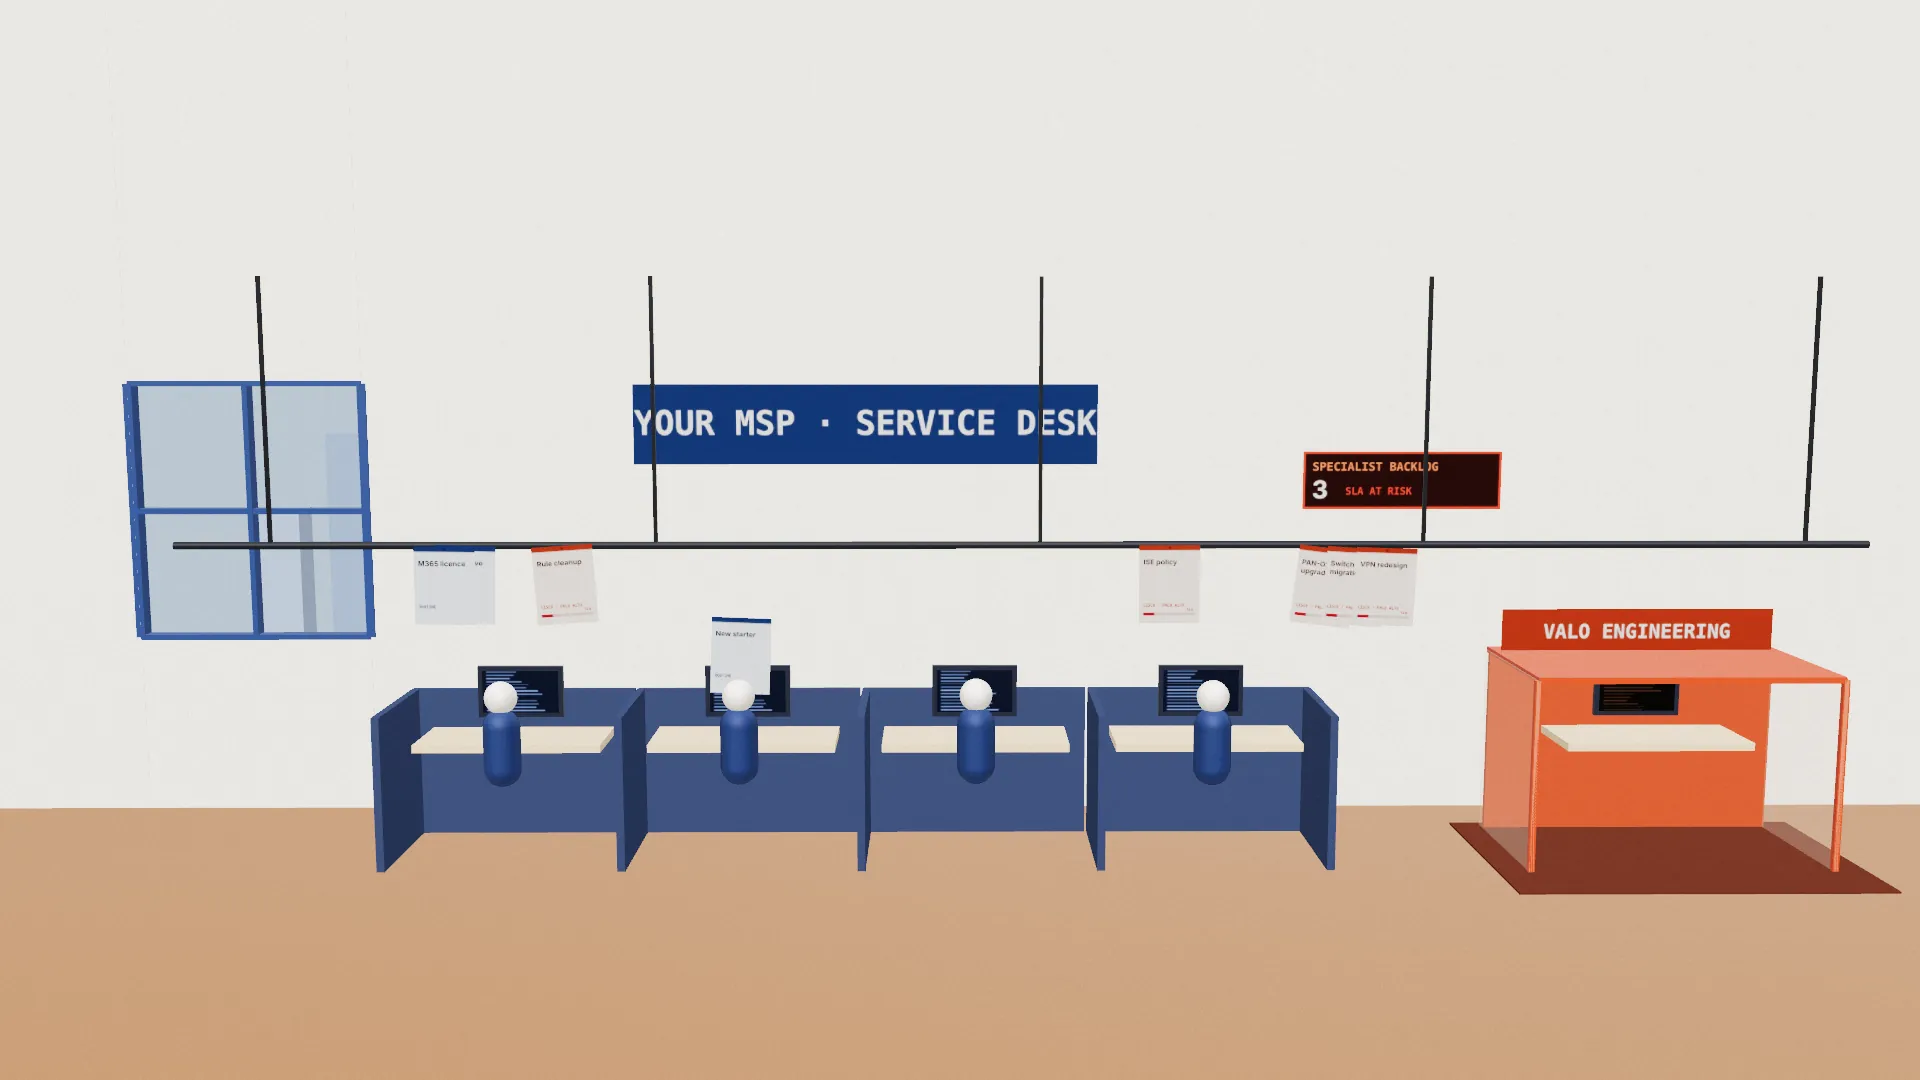
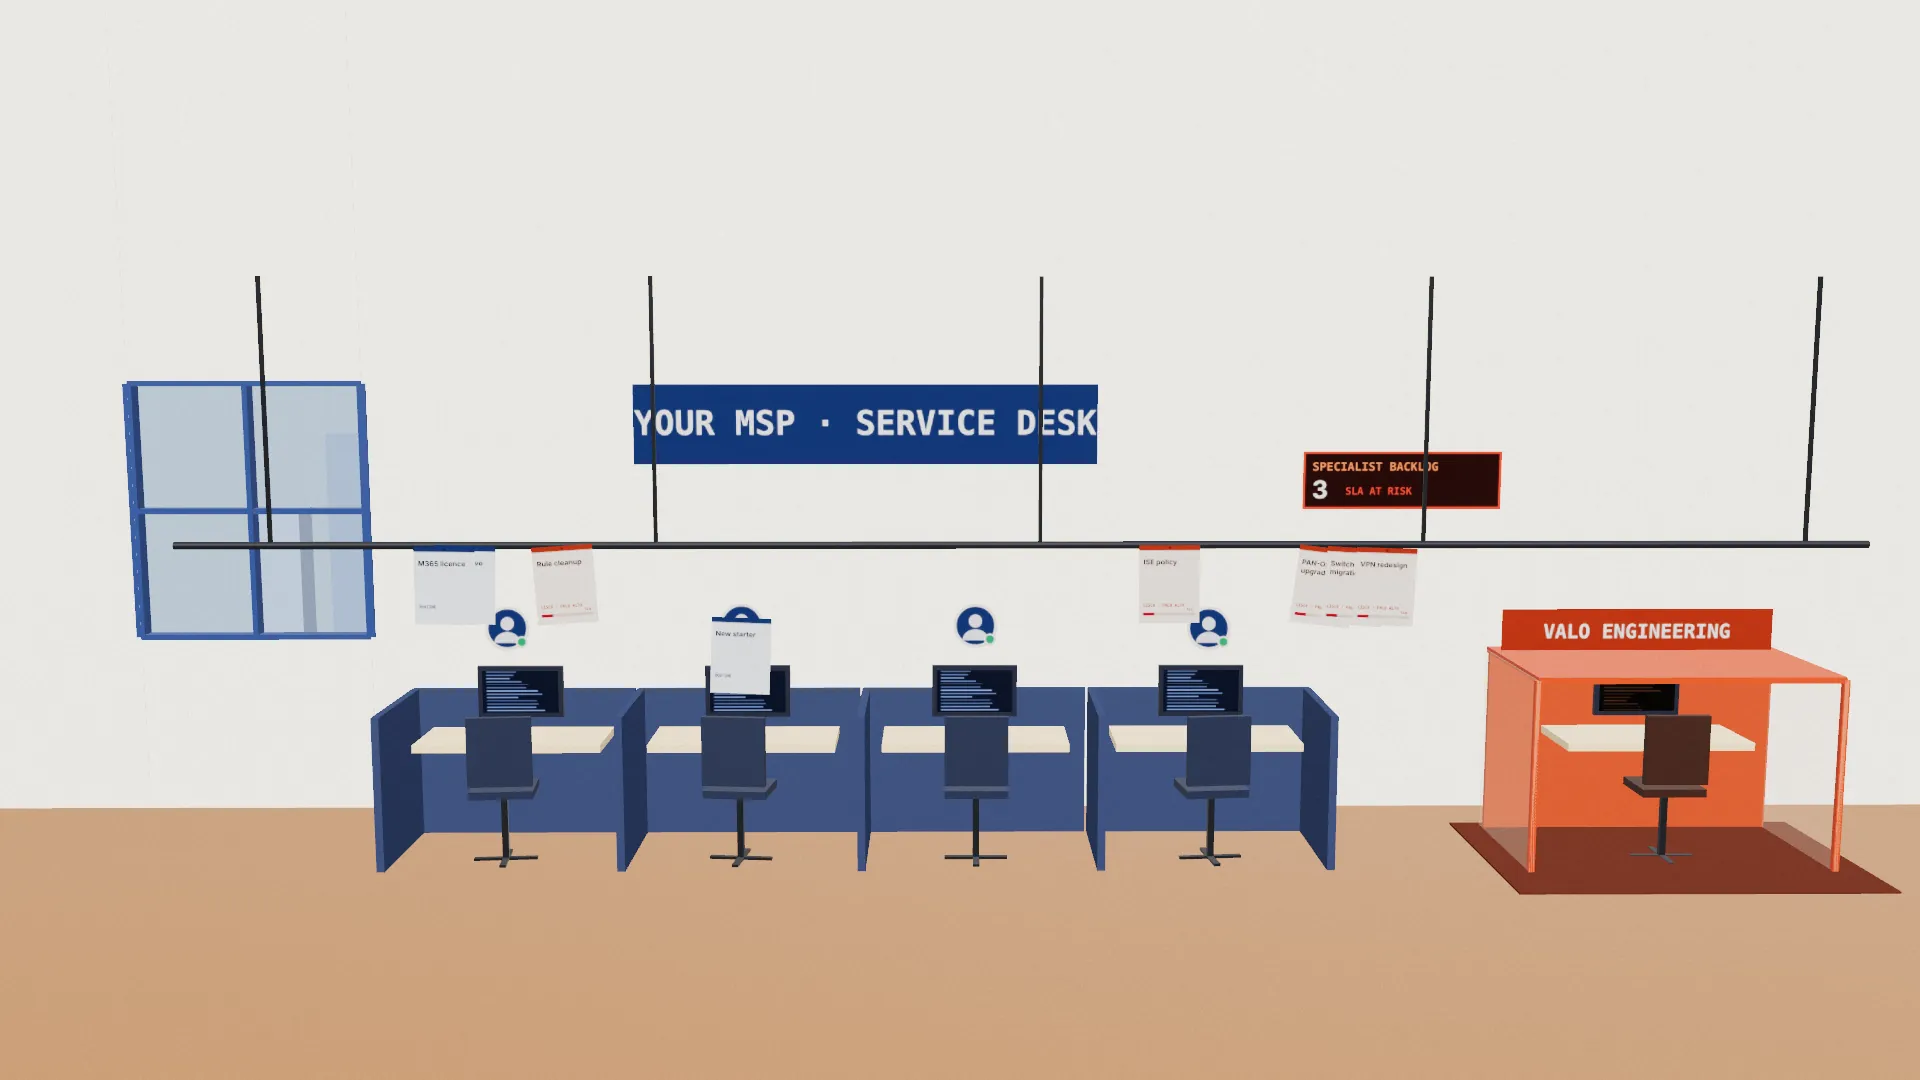
MSP rail: replace figure models with presence badges and office chairs
The capsule-and-sphere figures read as toys. Each cubicle now has an office
chair and a floating presence badge (person icon, green active dot); VALO's
pod gets an orange badge that switches on when the specialist starts work.
Checked tickets are spaced out so their titles stay readable.

Claude-Session: https://claude.ai/code/session_01HRxsGLBN173gTRBUJFHDZX

diff --git a/stage/scene-msp.js b/stage/scene-msp.js
@@ -56,6 +56,21 @@ function texCounter(THREE, n) {
 function texSign(THREE, text, bg, fg) {
   return canvasTex(THREE, 640, 110, (g, w, h) => { g.fillStyle = bg; g.fillRect(0, 0, w, h); g.font = '700 46px "JetBrains Mono", monospace'; g.fillStyle = fg; g.textBaseline = 'middle'; const tw = g.measureText(text).width; g.fillText(text, (w - tw) / 2, h / 2 + 2); });
 }
+function texBadge(THREE, fill, ring) {
+  return canvasTex(THREE, 256, 256, (g, w, h) => {
+    g.clearRect(0, 0, w, h);
+    g.fillStyle = 'rgba(0,0,0,0.18)'; g.beginPath(); g.arc(w / 2, h / 2 + 6, 104, 0, Math.PI * 2); g.fill();
+    g.fillStyle = '#ffffff'; g.beginPath(); g.arc(w / 2, h / 2, 104, 0, Math.PI * 2); g.fill();
+    g.fillStyle = fill; g.beginPath(); g.arc(w / 2, h / 2, 92, 0, Math.PI * 2); g.fill();
+    g.save(); g.beginPath(); g.arc(w / 2, h / 2, 92, 0, Math.PI * 2); g.clip();
+    g.fillStyle = 'rgba(255,255,255,0.92)';
+    g.beginPath(); g.arc(w / 2, h / 2 - 22, 32, 0, Math.PI * 2); g.fill();
+    g.beginPath(); g.ellipse(w / 2, h / 2 + 70, 62, 52, 0, Math.PI, 0); g.fill();
+    g.restore();
+    g.fillStyle = '#ffffff'; g.beginPath(); g.arc(w / 2 + 70, h / 2 + 66, 28, 0, Math.PI * 2); g.fill();
+    g.fillStyle = ring; g.beginPath(); g.arc(w / 2 + 70, h / 2 + 66, 20, 0, Math.PI * 2); g.fill();
+  });
+}
 function texScreen(THREE, line, bg) {
   const r = rand(3);
   return canvasTex(THREE, 256, 256, (g, w, h) => { g.fillStyle = bg; g.fillRect(0, 0, w, h); for (let y = 14; y < h; y += 20) { g.fillStyle = line; g.globalAlpha = 0.45 + r() * 0.55; g.fillRect(14, y, 40 + r() * 170, 8); } g.globalAlpha = 1; }, { repeat: [1, 1] });
@@ -106,9 +121,10 @@ export function mspScene(ctx) {
 
   // ---------- MSP cubicles ----------
   const partM = mat(0x2c3e63, { roughness: 0.9 }), deskM = mat(0xdcc29d, { roughness: 0.5 }), monM = mat(0x1a2236, { roughness: 0.4 });
-  const shirtM = mat(0x1d3a6e, { roughness: 0.6 }), headM = mat(0xf0eae2, { roughness: 0.6 });
+  const legM = mat(0x2b2f36, { metalness: 0.6, roughness: 0.35 });
+  const badgeN = texBadge(THREE, '#24467f', '#2bb673'), badgeV = texBadge(THREE, '#c2410c', '#2bb673');
   const scrN = texScreen(THREE, '#9cc0ff', '#13203a'), scrS = texScreen(THREE, '#ffb48a', '#2a1408');
-  const mkDesk = (x, pM, scrTex, parentSide) => {
+  const mkDesk = (x, pM, scrTex, parentSide, badgeTex, chairM) => {
     const g = new THREE.Group(); g.position.set(x, 0, -0.35); scene.add(g);
     box(0.025, 0.5, 0.5, pM, -0.36, 0.25, 0.02, g); if (parentSide) box(0.025, 0.5, 0.5, pM, 0.36, 0.25, 0.02, g);
     box(0.74, 0.5, 0.025, pM, 0, 0.25, -0.23, g);
@@ -116,12 +132,16 @@ export function mspScene(ctx) {
     box(0.28, 0.17, 0.02, monM, 0, 0.5, -0.18, g);
     const scrM = new THREE.MeshBasicMaterial({ map: scrTex, toneMapped: false });
     const scr = new THREE.Mesh(new THREE.PlaneGeometry(0.25, 0.14), scrM); scr.position.set(0, 0.5, -0.169); g.add(scr);
-    const person = new THREE.Group(); person.position.set(0, 0.22, 0.13); g.add(person);
-    const torso = new THREE.Mesh(new THREE.CapsuleGeometry(0.06, 0.13, 6, 12), shirtM); torso.position.y = 0.16; person.add(torso);
-    const head = new THREE.Mesh(new THREE.SphereGeometry(0.052, 16, 12), headM); head.position.y = 0.32; person.add(head);
-    return { g, scrM, person, head, top: V(x, 0.42, -0.42) };
+    const chair = new THREE.Group(); chair.position.set(0, 0, 0.12); g.add(chair);
+    box(0.2, 0.025, 0.19, chairM, 0, 0.24, 0, chair);
+    box(0.2, 0.22, 0.025, chairM, 0, 0.38, 0.09, chair);
+    box(0.02, 0.22, 0.02, legM, 0, 0.12, 0, chair);
+    box(0.2, 0.012, 0.02, legM, 0, 0.012, 0, chair); box(0.02, 0.012, 0.2, legM, 0, 0.012, 0, chair);
+    const badge = new THREE.Sprite(new THREE.SpriteMaterial({ map: badgeTex, toneMapped: false, transparent: true, depthWrite: false }));
+    badge.scale.setScalar(0.17); badge.position.set(0, 0.74, 0.0); g.add(badge);
+    return { g, scrM, chair, badge, top: V(x, 0.42, -0.42) };
   };
-  const desks = DESKS.map((x, i) => mkDesk(x, partM, scrN, i === DESKS.length - 1));
+  const desks = DESKS.map((x, i) => mkDesk(x, partM, scrN, i === DESKS.length - 1, badgeN, mat(0x1d2b45, { roughness: 0.6 })));
 
   // ---------- VALO Engineering pod, standing apart ----------
   const podG = new THREE.Group(); podG.position.set(POD.x, 0, -0.35); scene.add(podG);
@@ -133,7 +153,7 @@ export function mspScene(ctx) {
   box(POD.w, 0.02, 0.6, podFrameM, 0, 0.62, 0.02, podG);
   const podSign = new THREE.Mesh(new THREE.PlaneGeometry(0.9, 0.155), crisp(THREE, texSign(THREE, 'VALO ENGINEERING', '#c2410c', '#ffffff'), { transparent: false }));
   podSign.position.set(0, 0.69, -0.2); podG.add(podSign);
-  const pod = mkDesk(0, podFrameM, scrS, false); podG.add(pod.g); pod.g.position.set(0, 0, 0); pod.g.children.slice(0, 2).forEach((m) => { m.visible = false; });
+  const pod = mkDesk(0, podFrameM, scrS, false, badgeV, mat(0x3a1a0a, { roughness: 0.6 })); podG.add(pod.g); pod.g.position.set(0, 0, 0); pod.g.children.slice(0, 2).forEach((m) => { m.visible = false; });
   pod.top = V(POD.x, 0.42, -0.42);
 
   // ---------- tickets ----------
@@ -145,7 +165,7 @@ export function mspScene(ctx) {
   const spec = SPEC.map((title, k) => ({
     k, m: mkT(texTicket(THREE, title, 'spec')), tDone: texTicket(THREE, title, 'done'),
     arrive: 0.4 + k * 0.72, pile: V(PILE_X - 0.24 + k * 0.095, RAIL.y - 0.13, RAIL.z + 0.02 + k * 0.004),
-    pull: 6.0 + k * 0.42, worked: 11.2 + k * 0.5, line: V(PILE_X - 0.3 + k * 0.12, RAIL.y - 0.13, RAIL.z + 0.03 + k * 0.003),
+    pull: 6.0 + k * 0.42, worked: 11.2 + k * 0.5, line: V(PILE_X - 0.62 + k * 0.205, RAIL.y - 0.13, RAIL.z + 0.03 + k * 0.003),
     out: 16.9 + k * 0.38, bld: k % 4
   }));
   spec.forEach((s) => { s.tOpen = s.m.material.map; });
@@ -159,16 +179,17 @@ export function mspScene(ctx) {
     chapters: [{ start: 0, label: 'Backlog' }, { start: 5.5, label: 'Specialist' }, { start: 11, label: 'Validate' }, { start: 16.5, label: 'Hand over' }],
     labels: [
       { text: 'Client tickets', at: (t, v) => v.set(WIN.x1 + 0.15, WIN.y1 + 0.08, WALL_Z + 0.1), alpha: (t) => smooth(0.4, 1.0, t) * (1 - smooth(5.0, 5.5, t)) },
-      { text: 'Specialist · in your process', tone: 'accent', at: (t, v) => v.set(POD.x, 0.98, -0.3), alpha: (t) => smooth(6.2, 6.8, t) * (1 - smooth(10.6, 11.0, t)) },
+      { text: 'Specialist · in your process', tone: 'accent', at: (t, v) => v.set(POD.x, 1.16, -0.3), alpha: (t) => smooth(6.2, 6.8, t) * (1 - smooth(10.6, 11.0, t)) },
       { text: 'Checked · in your colours', tone: 'ok', at: (t, v) => v.set(PILE_X + 0.05, RAIL.y + 0.36, RAIL.z), alpha: (t) => smooth(13.4, 13.9, t) * (1 - smooth(16.2, 16.6, t)) },
       { text: 'Delivered in your name', tone: 'ok', at: (t, v) => v.set((WIN.x0 + WIN.x1) / 2, WIN.y1 + 0.1, WALL_Z), alpha: (t) => smooth(18.2, 18.8, t) * (1 - smooth(21.2, 21.7, t)) }
     ],
     fade: (t) => shotFade(SHOTS, t),
     update(t) {
       scrN.offset.y = (t * 0.35) % 1; scrS.offset.y = (t * 0.5) % 1;
-      desks.forEach((d, i) => { d.person.position.y = 0.22 + Math.sin(t * 3 + i * 1.7) * 0.004; d.head.rotation.y = Math.sin(t * 0.7 + i) * 0.35; });
+      desks.forEach((d, i) => { d.badge.position.y = 0.74 + Math.sin(t * 1.6 + i * 1.3) * 0.008; d.chair.rotation.y = Math.sin(t * 0.6 + i * 2) * 0.12; });
       const podOn = smooth(5.7, 6.5, t);
-      pod.person.visible = podOn > 0.01; pod.person.scale.setScalar(0.6 + 0.4 * podOn);
+      pod.badge.visible = podOn > 0.01; pod.badge.scale.setScalar(0.17 * (0.5 + 0.5 * podOn) * (1 + 0.25 * Math.sin(clamp01((t - 5.7) / 0.8) * Math.PI)));
+      pod.badge.position.y = 0.95 + Math.sin(t * 1.6) * 0.008;
       pod.scrM.color.setScalar(0.15 + 0.85 * podOn);
       podLamp.intensity = 1.2 * podOn;
       glassM.opacity = 0.2 + 0.15 * podOn;

diff --git a/index.html b/index.html
@@ -209,7 +209,7 @@
   <!-- 5. MSP partnership feature.
        Background still rendered from stage/scene-msp.js (v5, ticket rail) at t = 3.8 s, shift -0.12. -->
   <section class="h-msp" id="msp" aria-labelledby="h-msp-title" data-media-status="poster-preview">
-    <div class="h-msp-media" aria-hidden="true"><img src="/media/msp-feature.webp?v=20261106" alt="" width="1920" height="1080" loading="lazy" /></div>
+    <div class="h-msp-media" aria-hidden="true"><img src="/media/msp-feature.webp?v=20261106b" alt="" width="1920" height="1080" loading="lazy" /></div>
     <div class="h-msp-shade" aria-hidden="true"></div>
     <div class="container h-msp-inner">
       <p class="h-label">For MSPs</p>
